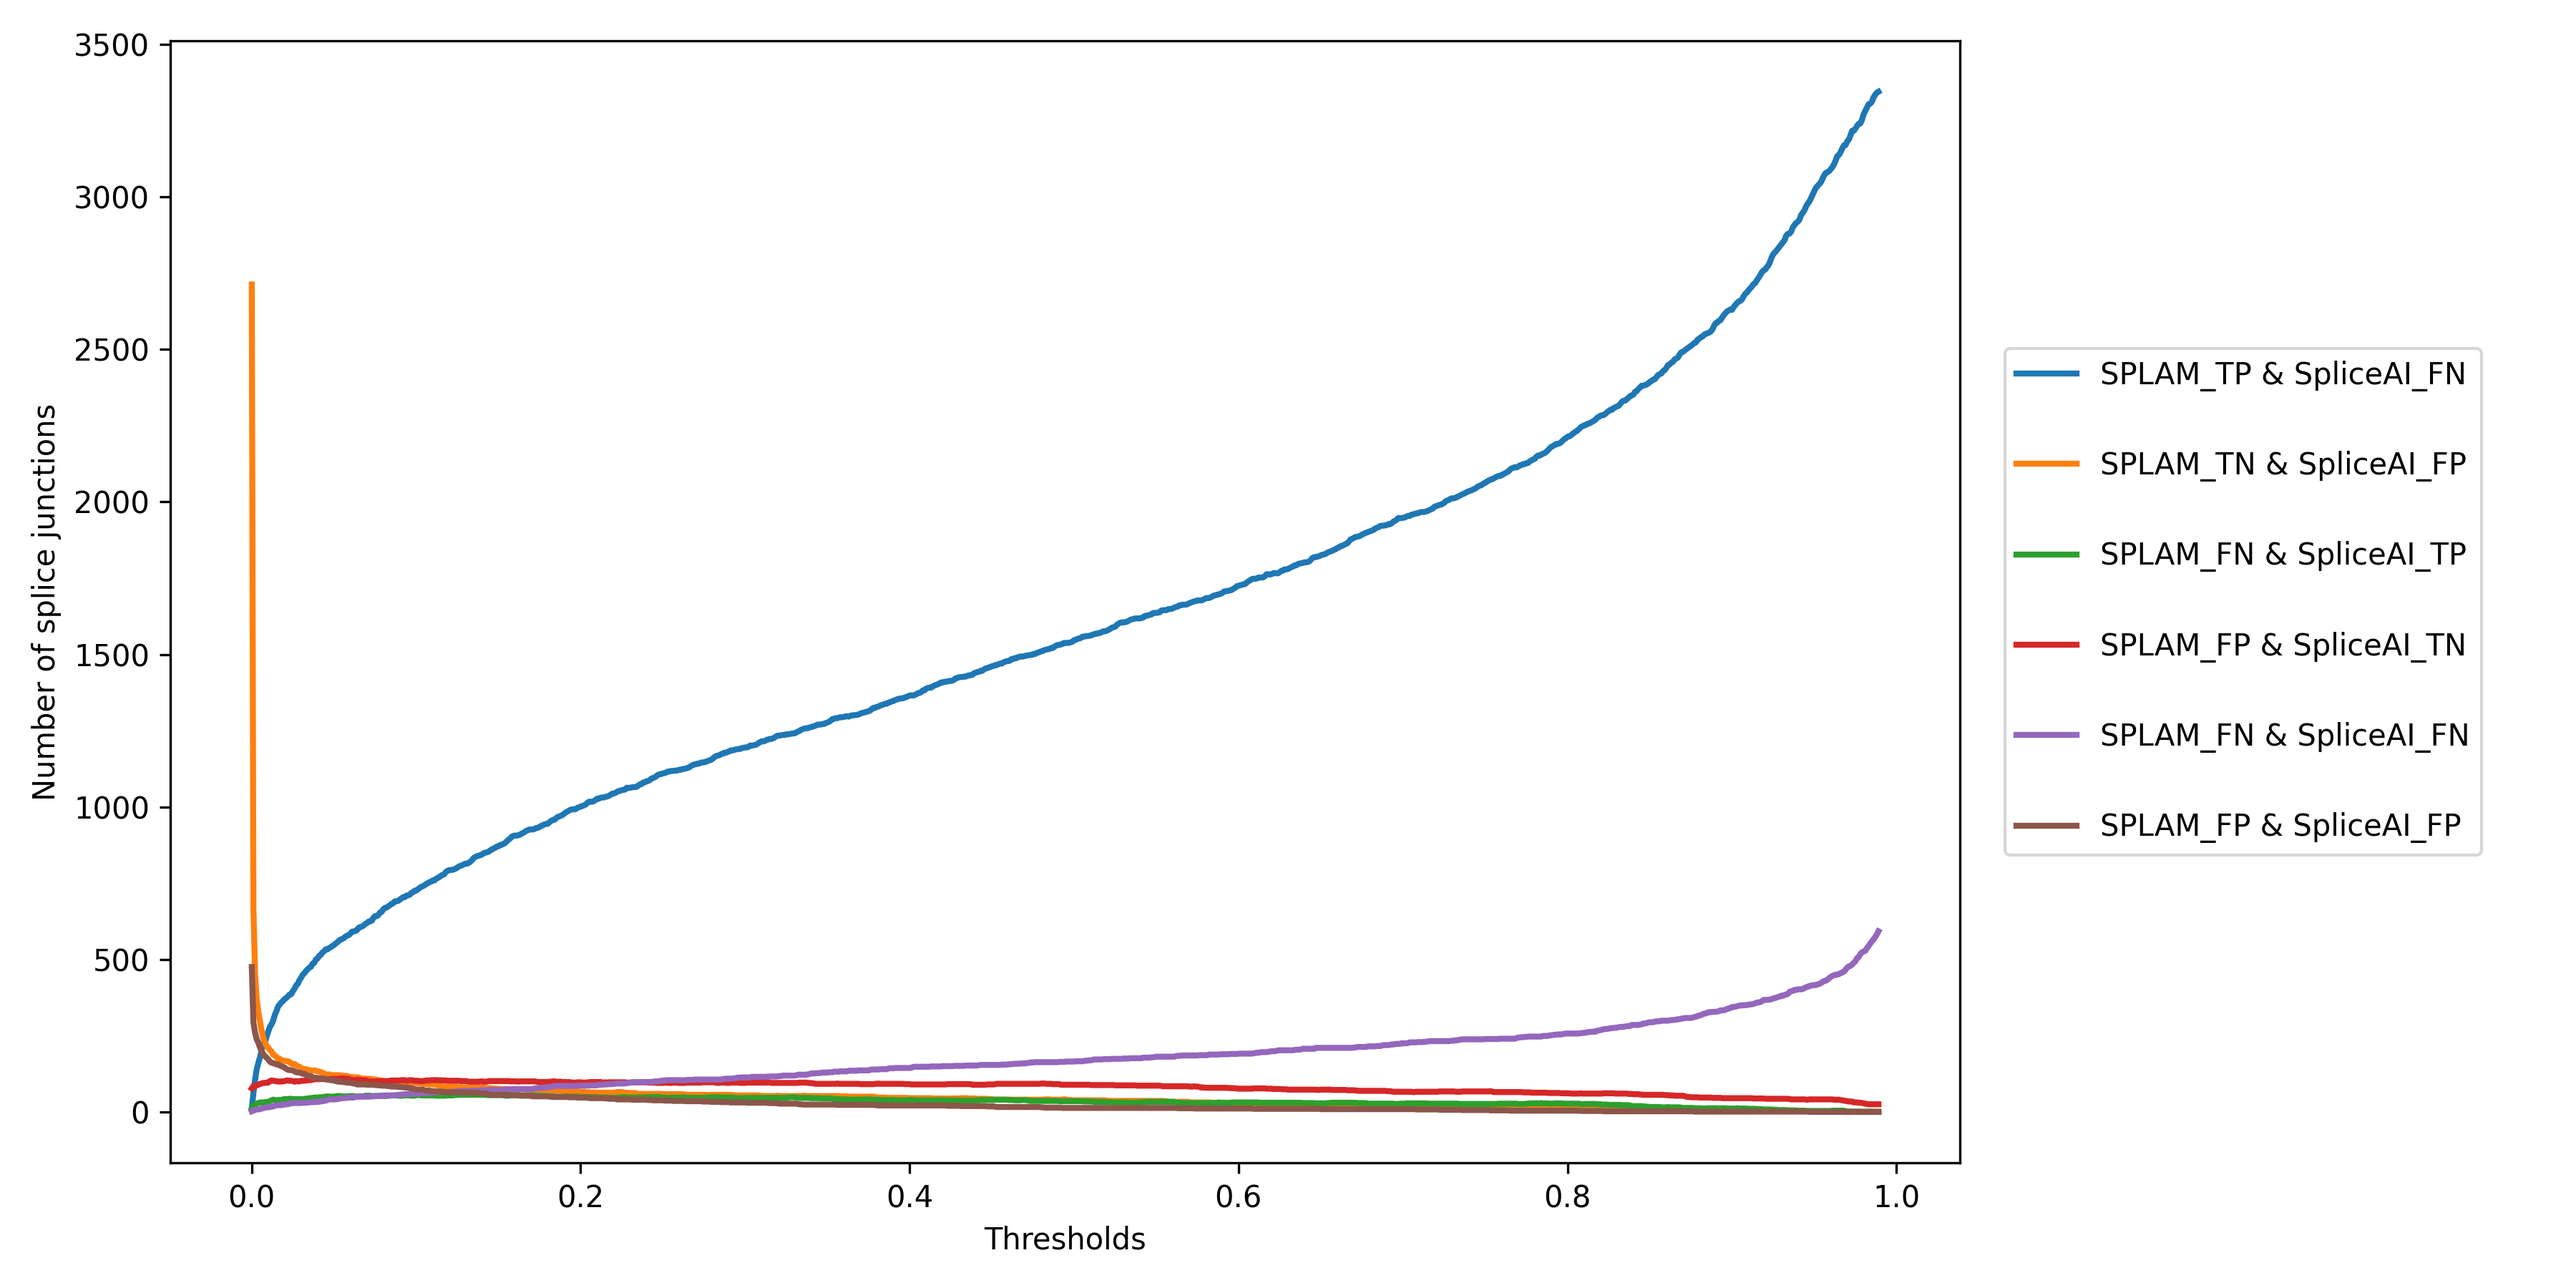
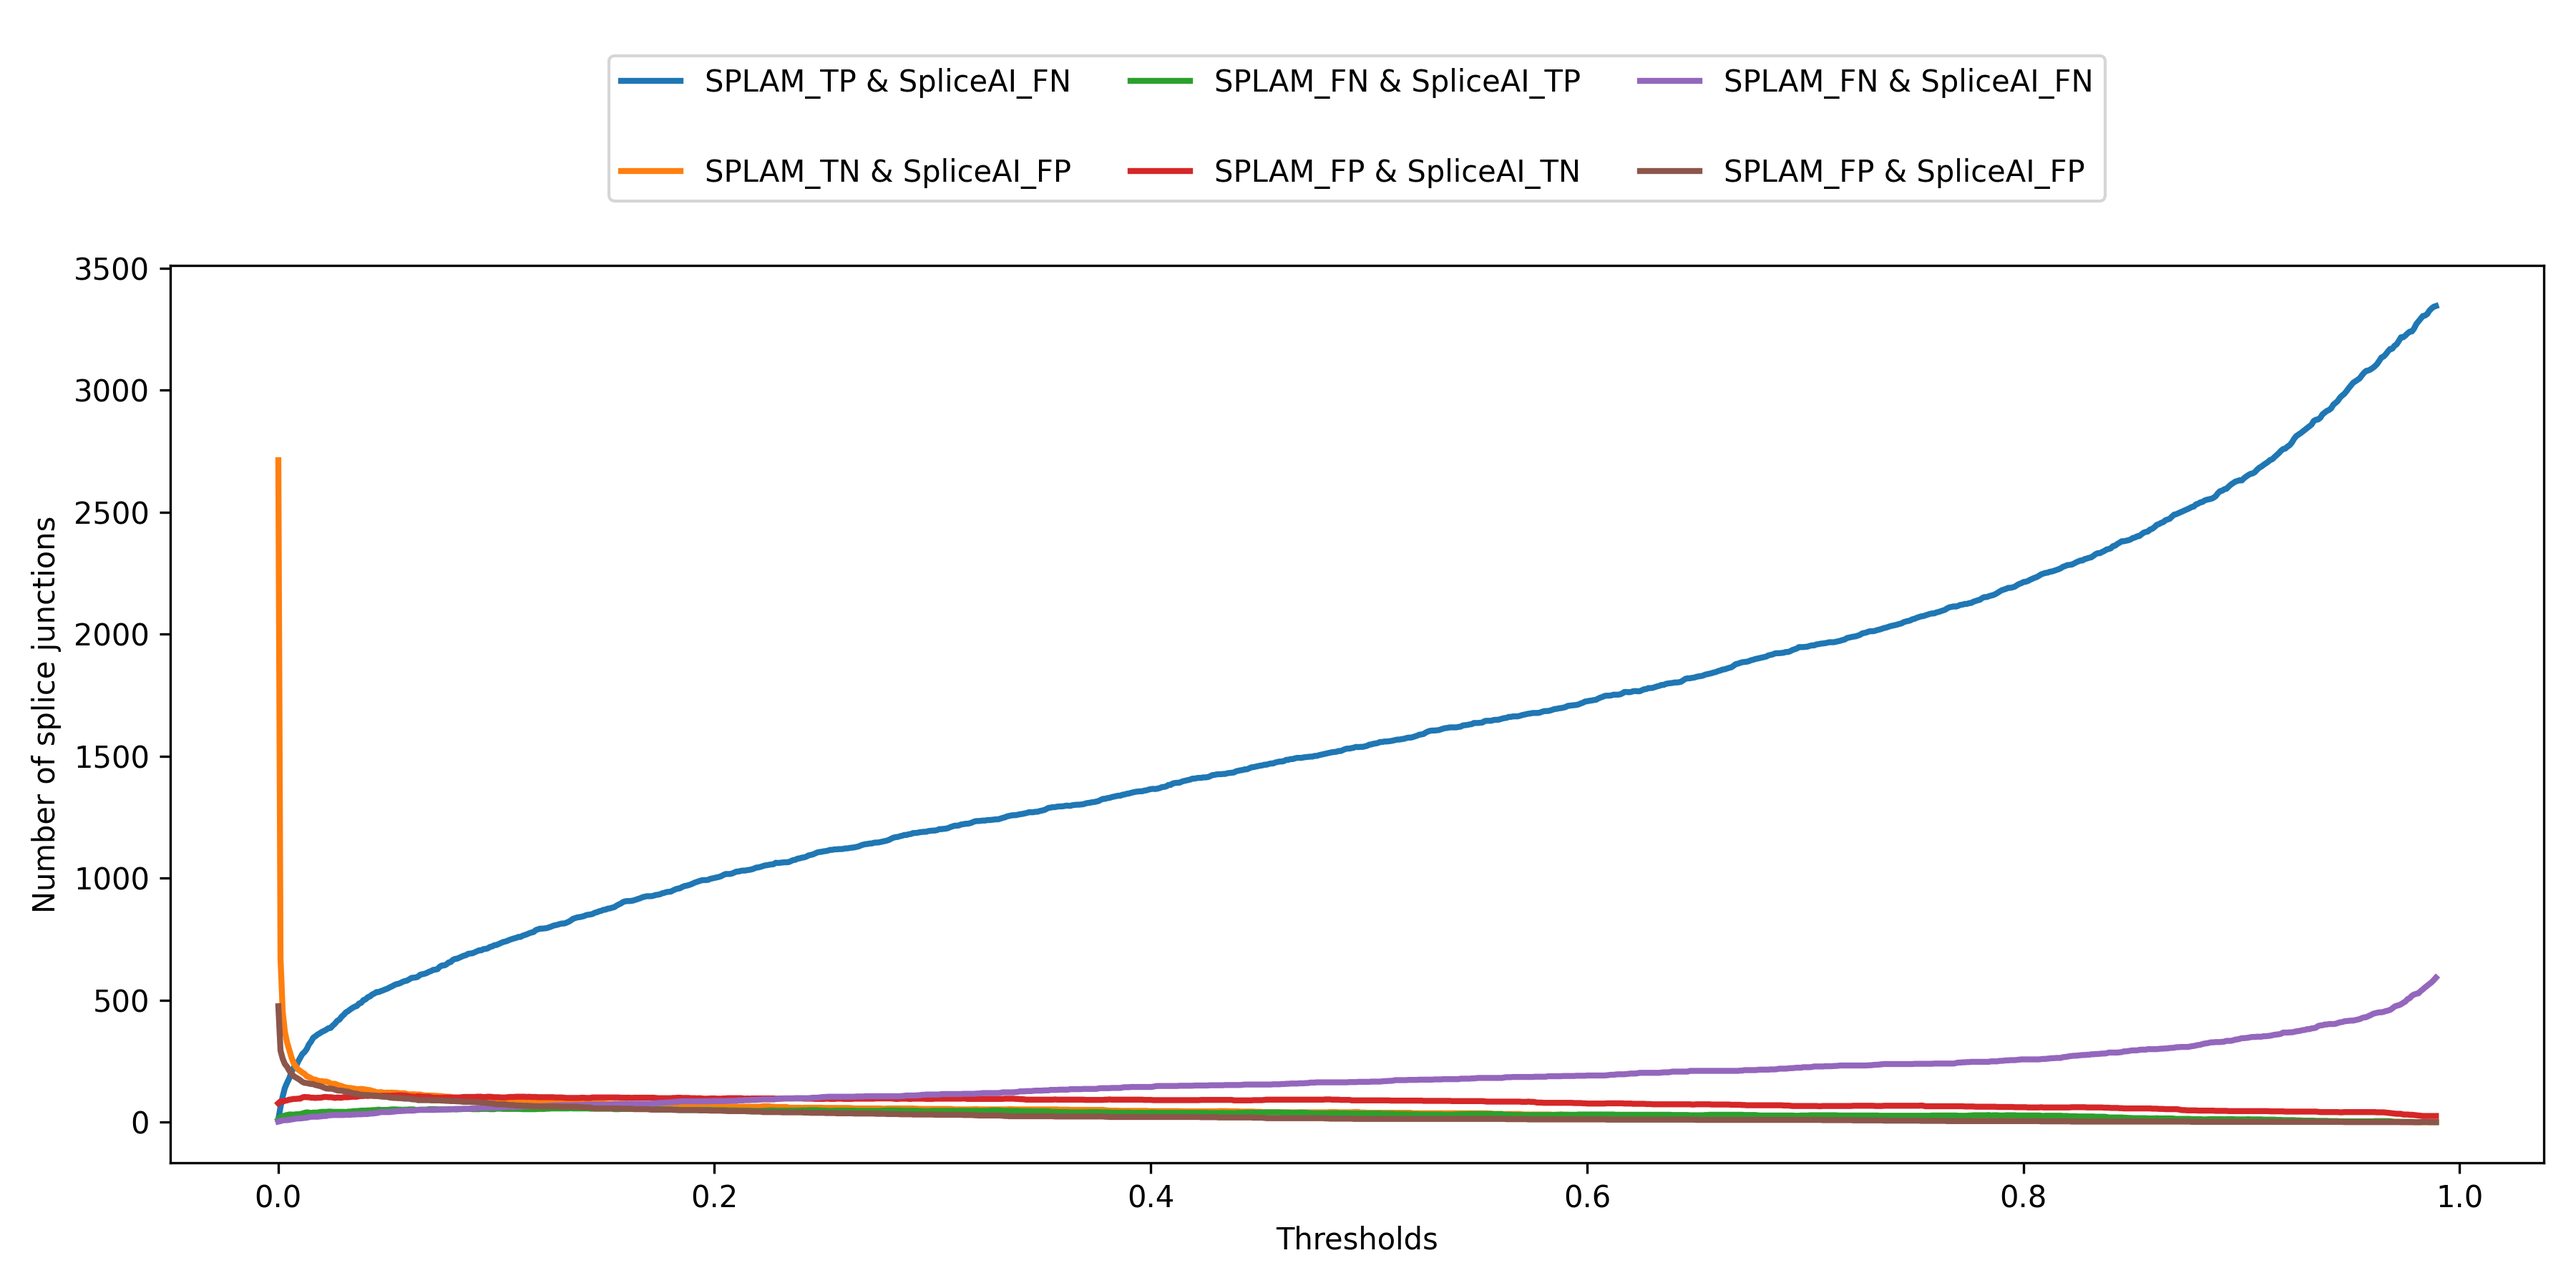
Update Figure_S3

diff --git a/Figures/Figure_S3/d_a_threshold_plot.py b/Figures/Figure_S3/d_a_threshold_plot.py
@@ -304,7 +304,7 @@ def main():
                 # plt.axvline(x = spliceai_threshold, linestyle ='--', color = 'b', label = 'SpliceAI_threshold('+str(spliceai_threshold)+')')
 
 
-                plt.legend(loc="center right", bbox_to_anchor=(1.3, 0.5), labelspacing=2)
+                plt.legend(loc="upper center", bbox_to_anchor=(0.5, 1.25), labelspacing=2, ncol=3)
                 plt.tight_layout()
                 plt.savefig("IMG/" + SPLAM_VERSION + "/TP_TN_FP_FN/"+TARGET+"/threshold_"+x_axis_rep+"_"+str(threshold_min)+"_"+str(threshold_max)+".png", dpi=300)
                 # plt.show()
